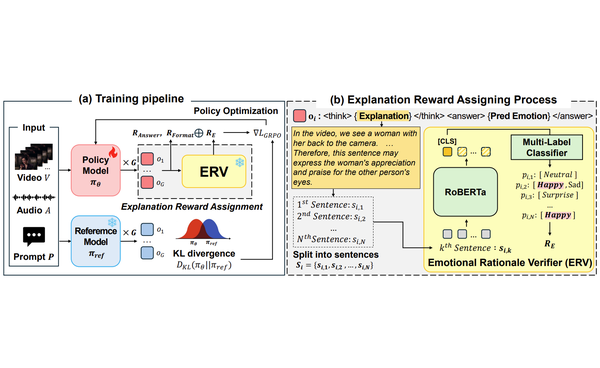
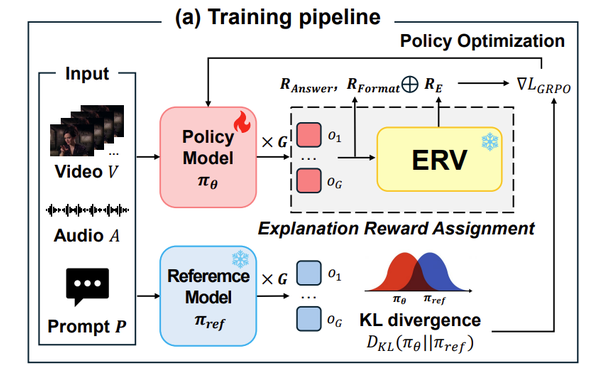
Redesign publication list: larger thumbnails, borders instead of rules, sans-serif venue line

diff --git a/index.html b/index.html
@@ -48,20 +48,23 @@
   .news dt { color: var(--muted); font-size: 14px; padding-top: 2px; }
   .news dd { margin: 0; }
 
-  .pub { display: grid; grid-template-columns: 150px 1fr; gap: 22px; padding: 18px 0; border-bottom: 1px solid var(--line); align-items: center; }
-  .pub:last-child { border-bottom: 0; }
-  .thumb { width: 150px; height: 92px; border-radius: 6px; overflow: hidden; background: var(--thumb-bg); }
+  .pub { display: grid; grid-template-columns: 210px 1fr; gap: 26px; padding: 22px 0; align-items: center; }
+  .thumb { width: 210px; height: 129px; border: 1px solid var(--line); border-radius: 8px;
+            overflow: hidden; background: var(--bg);
+            transition: box-shadow .18s ease, transform .18s ease; }
+  .pub:hover .thumb { box-shadow: 0 6px 18px rgba(0,0,0,.10); transform: translateY(-2px); }
   .thumb img { width: 100%; height: 100%; object-fit: cover; display: block; }
   .thumb.missing img { display: none; }
   .meta p { margin: 0; }
-  .title { font-weight: 600; line-height: 1.4; }
+  .title { font-weight: 600; font-size: 17px; line-height: 1.4; }
   .authors { font-size: 15px; margin-top: 3px !important; }
-  .venue { font-size: 14px; color: var(--muted); margin-top: 3px !important; }
+  .venue { font-family: -apple-system, BlinkMacSystemFont, "Segoe UI", system-ui, Roboto, sans-serif; font-size: 13px; letter-spacing: .01em;
+            color: var(--muted); margin-top: 4px !important; }
   .desc { font-size: 14px; color: var(--muted); margin-top: 6px !important; }
 
-  .year { font-size: 13px; font-weight: 600; letter-spacing: 0.1em; color: var(--muted);
-           font-variant-numeric: tabular-nums; margin: 26px 0 -6px; }
-  .note + .year { margin-top: 4px; }
+  .year { font-family: -apple-system, BlinkMacSystemFont, "Segoe UI", system-ui, Roboto, sans-serif; font-size: 12px; font-weight: 600; letter-spacing: 0.14em;
+           color: #9a9a96; font-variant-numeric: tabular-nums; margin: 30px 0 2px; }
+  .note + .year { margin-top: 8px; }
 
   .list { margin: 0; padding-left: 0; list-style: none; }
   .list li { display: flex; justify-content: space-between; gap: 16px; padding: 4px 0; }
@@ -75,8 +78,8 @@
     .wrap { padding: 32px 18px 60px; }
     header { flex-direction: column-reverse; gap: 20px; }
     header .photo img { width: 120px; height: 120px; }
-    .pub { grid-template-columns: 1fr; gap: 10px; }
-    .thumb { width: 100%; height: 140px; }
+    .pub { grid-template-columns: 1fr; gap: 12px; }
+    .thumb { width: 100%; height: 150px; }
     .news { grid-template-columns: 1fr; gap: 2px; }
     .news dt { margin-top: 8px; }
   }

diff --git a/build.py b/build.py
@@ -142,6 +142,8 @@ def render(items, year_marks=False):
     return "".join(out)
 
 
+SANS = '-apple-system, BlinkMacSystemFont, "Segoe UI", system-ui, Roboto, sans-serif'
+
 page = f"""<!DOCTYPE html>
 <html lang="en">
 <head>
@@ -192,20 +194,23 @@ page = f"""<!DOCTYPE html>
   .news dt {{ color: var(--muted); font-size: 14px; padding-top: 2px; }}
   .news dd {{ margin: 0; }}
 
-  .pub {{ display: grid; grid-template-columns: 150px 1fr; gap: 22px; padding: 18px 0; border-bottom: 1px solid var(--line); align-items: center; }}
-  .pub:last-child {{ border-bottom: 0; }}
-  .thumb {{ width: 150px; height: 92px; border-radius: 6px; overflow: hidden; background: var(--thumb-bg); }}
+  .pub {{ display: grid; grid-template-columns: 210px 1fr; gap: 26px; padding: 22px 0; align-items: center; }}
+  .thumb {{ width: 210px; height: 129px; border: 1px solid var(--line); border-radius: 8px;
+            overflow: hidden; background: var(--bg);
+            transition: box-shadow .18s ease, transform .18s ease; }}
+  .pub:hover .thumb {{ box-shadow: 0 6px 18px rgba(0,0,0,.10); transform: translateY(-2px); }}
   .thumb img {{ width: 100%; height: 100%; object-fit: cover; display: block; }}
   .thumb.missing img {{ display: none; }}
   .meta p {{ margin: 0; }}
-  .title {{ font-weight: 600; line-height: 1.4; }}
+  .title {{ font-weight: 600; font-size: 17px; line-height: 1.4; }}
   .authors {{ font-size: 15px; margin-top: 3px !important; }}
-  .venue {{ font-size: 14px; color: var(--muted); margin-top: 3px !important; }}
+  .venue {{ font-family: {SANS}; font-size: 13px; letter-spacing: .01em;
+            color: var(--muted); margin-top: 4px !important; }}
   .desc {{ font-size: 14px; color: var(--muted); margin-top: 6px !important; }}
 
-  .year {{ font-size: 13px; font-weight: 600; letter-spacing: 0.1em; color: var(--muted);
-           font-variant-numeric: tabular-nums; margin: 26px 0 -6px; }}
-  .note + .year {{ margin-top: 4px; }}
+  .year {{ font-family: {SANS}; font-size: 12px; font-weight: 600; letter-spacing: 0.14em;
+           color: #9a9a96; font-variant-numeric: tabular-nums; margin: 30px 0 2px; }}
+  .note + .year {{ margin-top: 8px; }}
 
   .list {{ margin: 0; padding-left: 0; list-style: none; }}
   .list li {{ display: flex; justify-content: space-between; gap: 16px; padding: 4px 0; }}
@@ -219,8 +224,8 @@ page = f"""<!DOCTYPE html>
     .wrap {{ padding: 32px 18px 60px; }}
     header {{ flex-direction: column-reverse; gap: 20px; }}
     header .photo img {{ width: 120px; height: 120px; }}
-    .pub {{ grid-template-columns: 1fr; gap: 10px; }}
-    .thumb {{ width: 100%; height: 140px; }}
+    .pub {{ grid-template-columns: 1fr; gap: 12px; }}
+    .thumb {{ width: 100%; height: 150px; }}
     .news {{ grid-template-columns: 1fr; gap: 2px; }}
     .news dt {{ margin-top: 8px; }}
   }}
